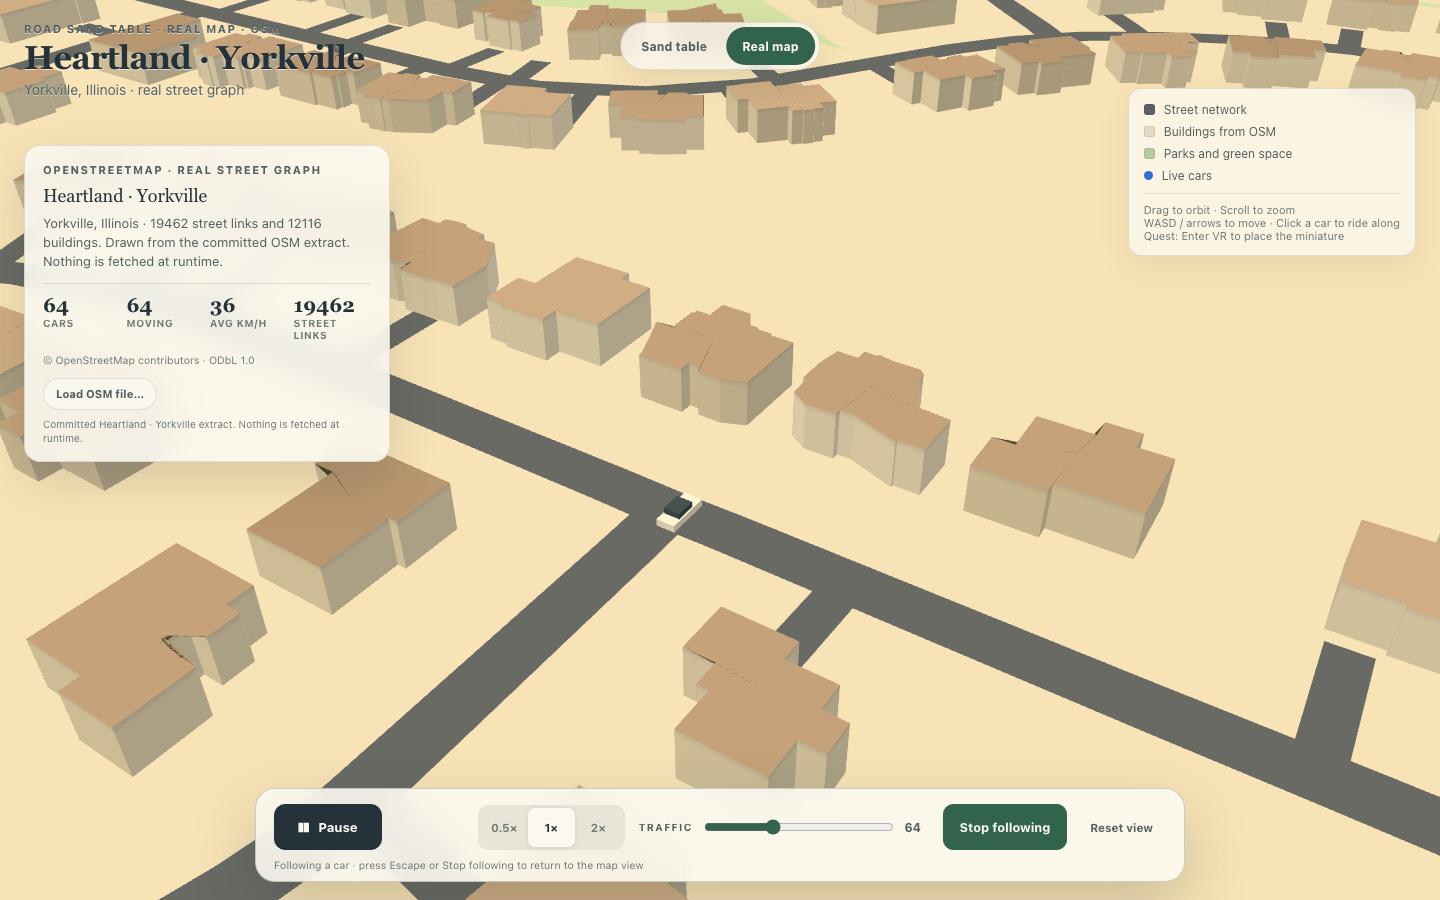
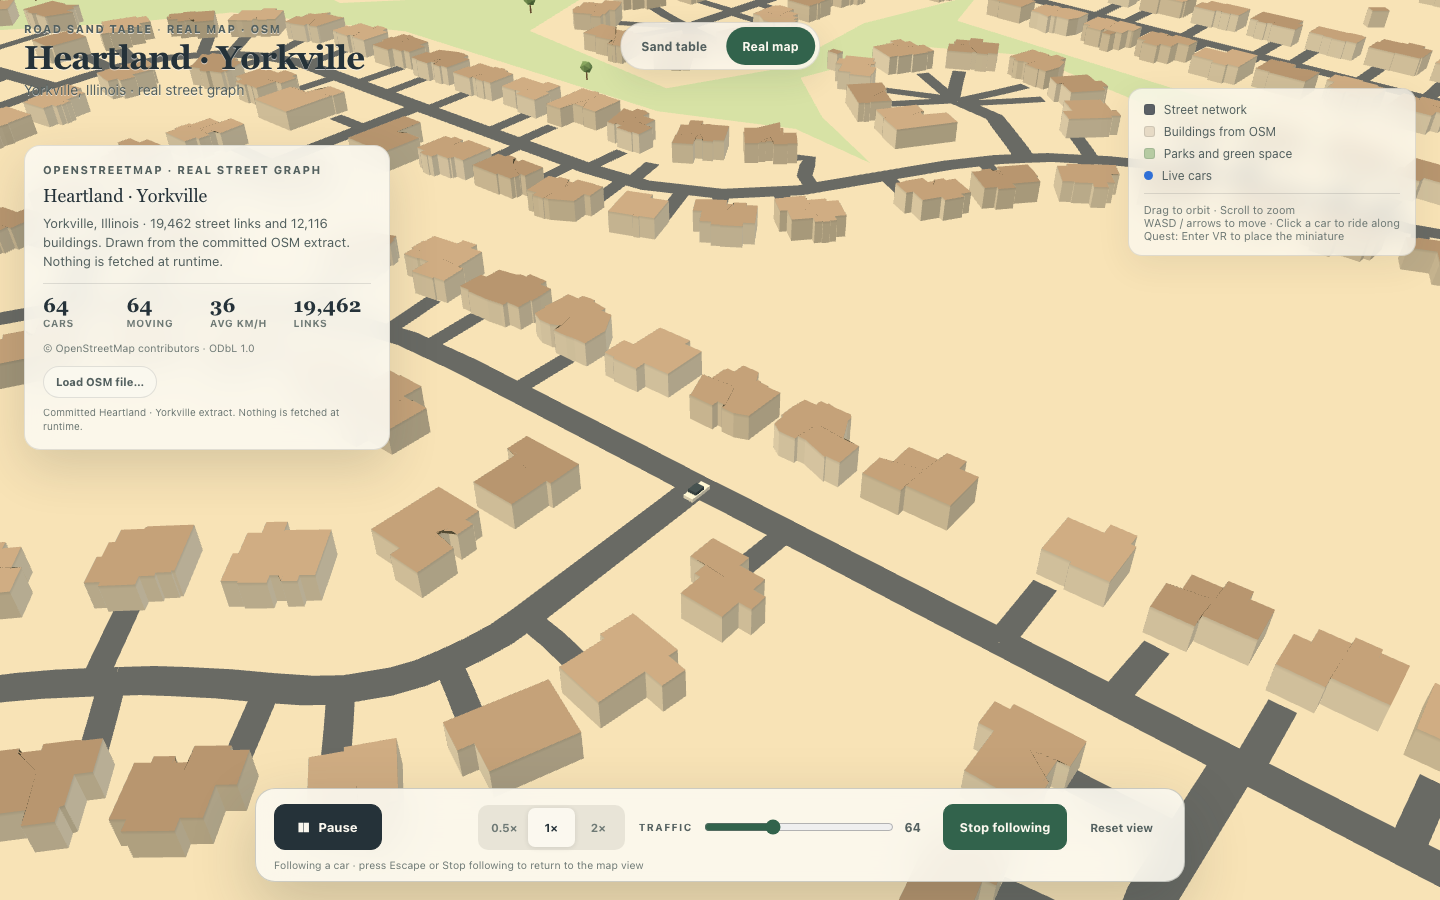
Read large map counts cleanly in the map card
A 19,462-link extract wrapped its label onto two lines and showed the raw
count. Group the digits and shorten the stat label to LINKS, then refresh
the map screenshots.

diff --git a/src/ui.js b/src/ui.js
@@ -1,6 +1,10 @@
 // All DOM wiring lives here. The simulation and renderer know nothing about
 // buttons, captions or accessibility state.
 
+// Map extracts range from a few thousand to tens of thousands of links, so the
+// counts read better with thousands separators.
+const count = (value) => Number(value || 0).toLocaleString('en-US');
+
 function formatTime(seconds) {
   const totalMilliseconds = Math.max(0, Math.round(seconds * 1000));
   const minutes = Math.floor(totalMilliseconds / 60000);
@@ -352,12 +356,12 @@ export class UI {
     elements.subtitle.textContent = place ? `${place} · real street graph` : 'Real street graph';
     elements.mapName.textContent = name;
     elements.mapBlurb.textContent = `${place || 'OpenStreetMap extract'} · ` +
-      `${stats.roadEdges} street links and ${stats.buildings} buildings. ` +
+      `${count(stats.roadEdges)} street links and ${count(stats.buildings)} buildings. ` +
       (custom
         ? 'Loaded from your saved OSM file. Nothing is uploaded or fetched at runtime.'
         : 'Drawn from the committed OSM extract. Nothing is fetched at runtime.');
     elements.mapAttribution.textContent = attribution;
-    elements.mapStatStreets.textContent = String(stats.roadEdges);
+    elements.mapStatStreets.textContent = count(stats.roadEdges);
     elements.mapDefault.hidden = !custom;
   }
 

diff --git a/index.html b/index.html
@@ -102,7 +102,7 @@
           <div class="map-stat"><strong id="map-stat-cars">64</strong><span>cars</span></div>
           <div class="map-stat"><strong id="map-stat-moving">–</strong><span>moving</span></div>
           <div class="map-stat"><strong id="map-stat-speed">–</strong><span>avg km/h</span></div>
-          <div class="map-stat"><strong id="map-stat-streets">–</strong><span>street links</span></div>
+          <div class="map-stat"><strong id="map-stat-streets">–</strong><span>links</span></div>
         </div>
         <p class="map-attribution" id="map-attribution">© OpenStreetMap contributors · ODbL 1.0</p>
         <div class="map-loader">
